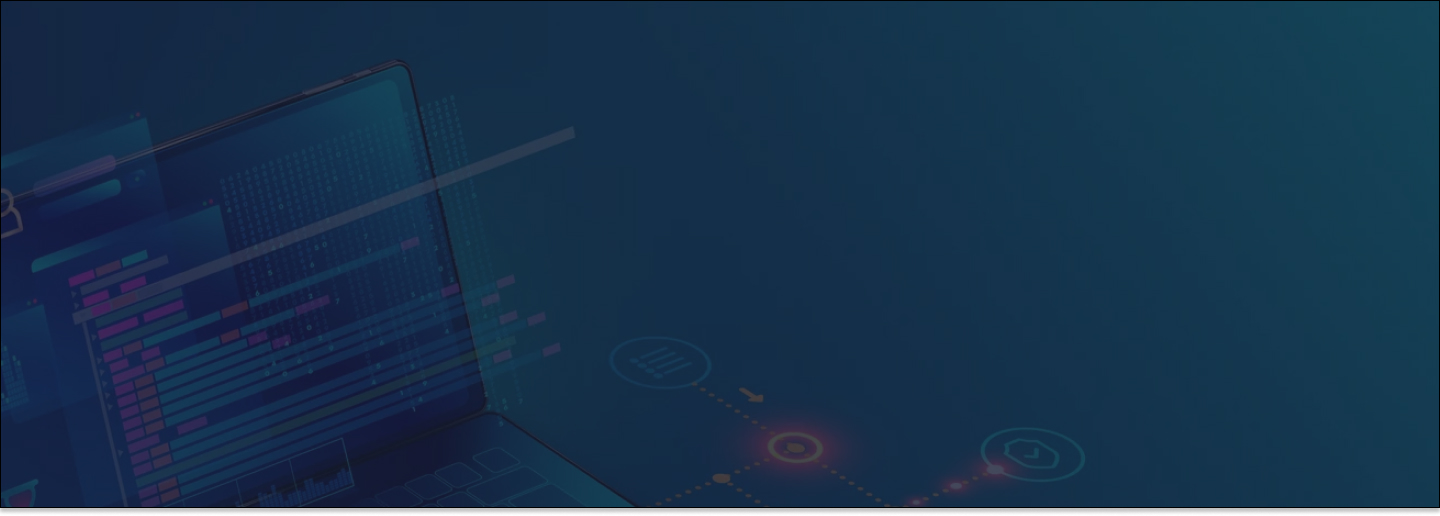
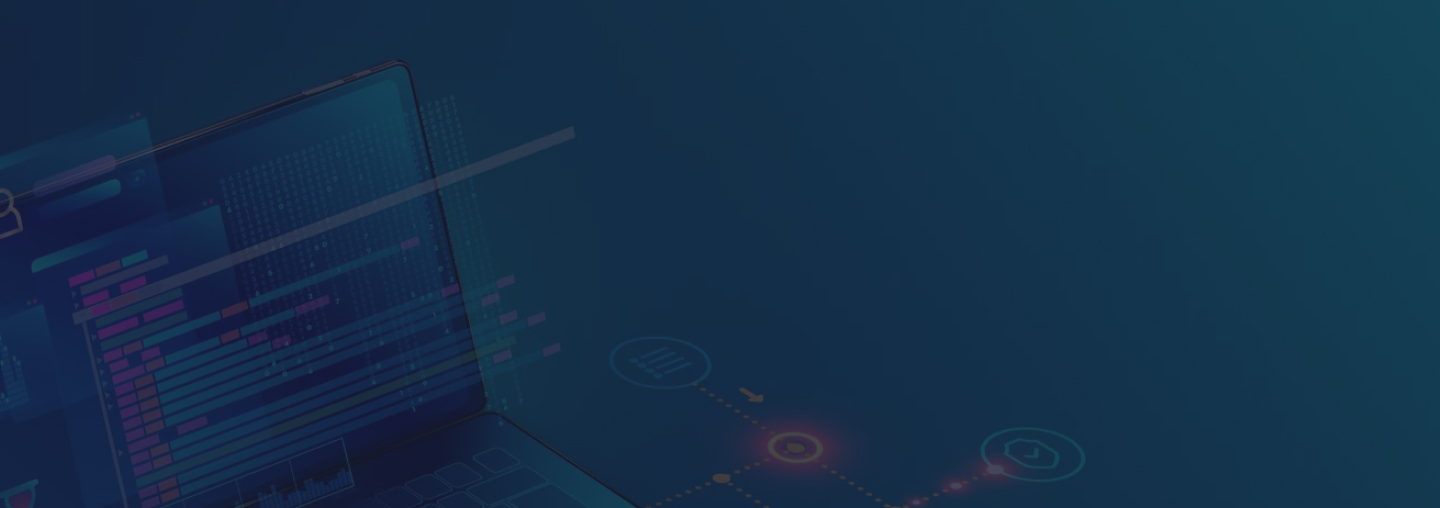
.

diff --git a/maket-1/css/style.css b/maket-1/css/style.css
@@ -52,8 +52,8 @@ body, html {
 
 .main-hero {
   padding: 120px 0 120px;
-  background: rgba(24, 30, 52, 0.81), url("path_to_image");
-  background: url("../img/hero-bg.jpg");
+  border: 1px solid #000;
+  background: url("../img/hero-bg.jpg") 10% 100% / cover no-repeat;
   box-shadow: 0 4px 4px 0 rgba(0, 0, 0, 0.25);
 }
 
